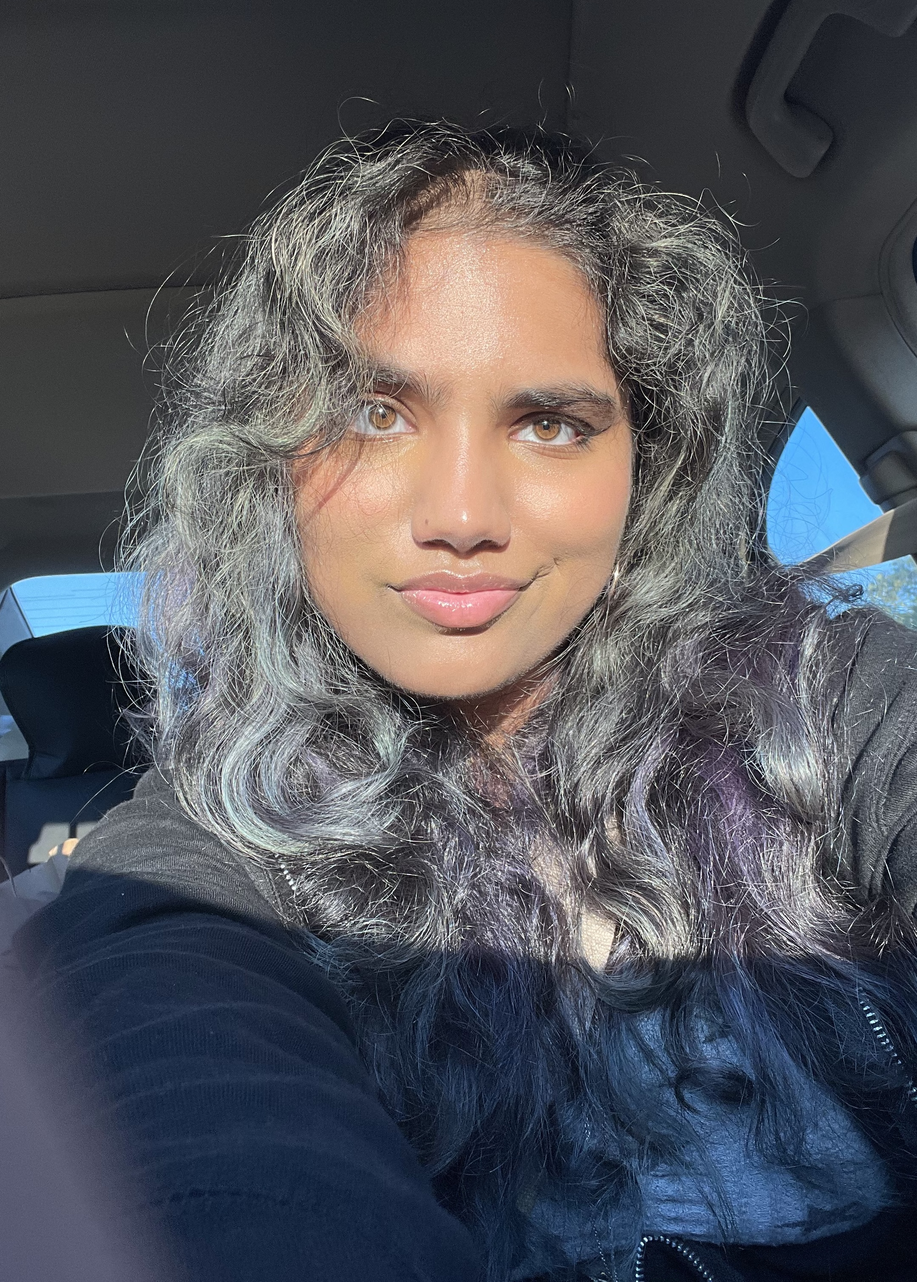
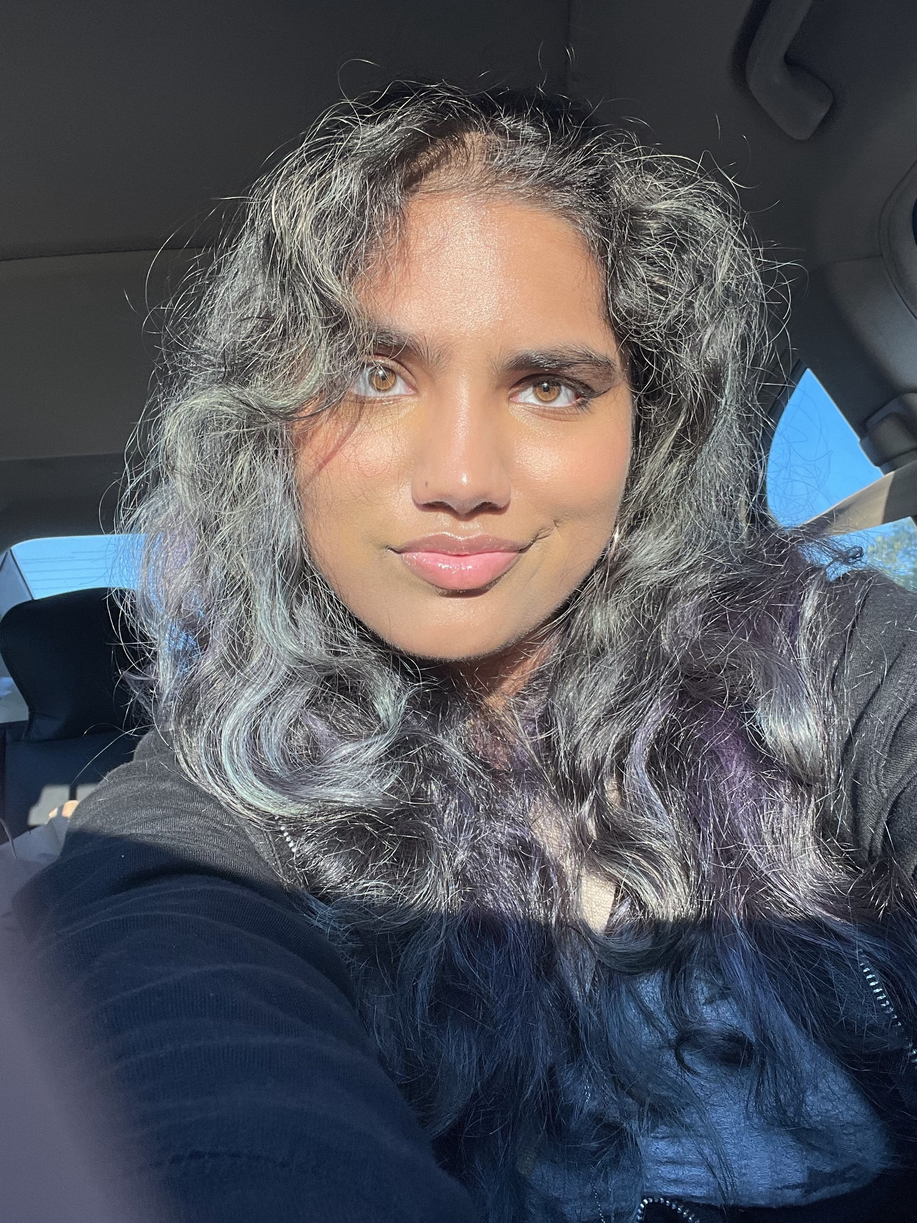
update exec board pic ratio, gitignore file, and AWC home image

diff --git a/about.html b/about.html
@@ -59,7 +59,7 @@
       <h2>Our Mission</h2>
     </div>
 
-    <div class="column2"> <!--style="background-color:rgba(168, 156, 200, 0.42);"-->
+    <div class="column2"> 
       <br><br>
       <p>
         We strive to create an inclusive community to promote gender equality and empowerment
@@ -78,75 +78,75 @@
       <h2>2025-2026 Executive Board</h2><br>
     </div>
     <div class="container">
-      <div class="row row-cols-1 row-cols-sm-2 row-cols-md-3 row-cols-lg-4 mb-4">
-        <div class="col exec mb-3">
-          <img src="assets-25/photos25/board_pics/Sriya.JPG" alt="Sriya Sogal Photo" width="90%">
+      <div class="row exec-row">
+        <div <div class="col exec">
+          <img src="assets-25/photos25/board_pics/sriya.jpeg" alt="Sriya Sogal Photo">
           <h2 class="name">Sriya Sogal</h2>
           <h3 class="position">Co-President | Senior</h3>
           <h4>Computer Science Major | Public Policy Major</h4>
         </div>
-        <div class="col exec mb-3">
-          <img src="assets-25/photos25/board_pics/sathvika.png" alt="Sathvika Sangoju Photo" width="85%">
+        <div class="col exec">
+          <img src="assets-25/photos25/board_pics/sathvika.jpeg" alt="Sathvika Sangoju Photo">
           <h2 class="name">Sathvika Sangoju</h2>
           <h3 class="position">Co-President | Senior</h3>
           <h4>Computer Science Major | General Business, Data Science</h4>
         </div>
-        <div class="col exec mb-3">
-          <img src="assets-25/photos25/board_pics/Nithika.jpg" alt="Nithika Ramana Photo" width="87%">
+        <div class="col exec">
+          <img src="assets-25/photos25/board_pics/nithika.jpeg" alt="Nithika Ramana Photo">
           <h2 class="name">Nithika Ramana</h2>
           <h3 class="position">Co-Active Members Director | Junior</h3>
           <h4>Computer Science Major | Statistics Minor</h4>
         </div>
-        <div class="col exec mb-3">
-          <img src="assets-25/photos25/board_pics/ananya.jpg" alt="Ananya Malipeddi Photo" width="90%">
+        <div class="col exec">
+          <img src="assets-25/photos25/board_pics/ananya.jpeg" alt="Ananya Malipeddi Photo">
           <h2 class="name">Ananya Malipeddi</h2>
           <h3 class="position">Co-Active Members Director | Senior</h3>
           <h4>Computer Science Major</h4>
         </div>
-        <div class="col exec mb-3">
-          <img src="assets-25/photos25/board_pics/zoya.jpeg" alt="Zoya Rahman Photo" width="90%">
+        <div class="col exec">
+          <img src="assets-25/photos25/board_pics/zoya.jpeg" alt="Zoya Rahman Photo">
           <h2 class="name">Zoya Rahman</h2>
           <h3 class="position">Design Director | Junior</h3>
           <h4>Computer Science Major | Immersive Media Design Major</h4>
         </div>
-        <div class="col exec mb-3">
-          <img src="assets-25/photos25/board_pics/Aabha.jpg" alt="Aabha Belsare Photo" width="90%">
+        <div class="col exec">
+          <img src="assets-25/photos25/board_pics/aabha.jpeg" alt="Aabha Belsare Photo">
           <h2 class="name">Aabha Belsare</h2>
           <h3 class="position">Finance Director | Sophomore</h3>
           <h4>Computer Science Major | Finance Major </h4>
         </div>
-        <div class="col exec mb-3">
-          <img src="assets-25/photos25/board_pics/Avanti.jpg" alt="Avanti Athavale Photo" width="83.5%">
+        <div class="col exec">
+          <img src="assets-25/photos25/board_pics/avanti.jpeg" alt="Avanti Athavale Photo">
           <h2 class="name">Avanti Athavale</h2>
           <h3 class="position">Co-Sponsorship Director | Junior</h3>
           <h4>Computer Science Major | Finance Major</h4>
         </div>
-        <div class="col exec mb-3">
-          <img src="assets-25/photos25/board_pics/laasya.jpg" alt="Laasya Madduri Photo" width="83.5%">
+        <div class="col exec">
+          <img src="assets-25/photos25/board_pics/laasya.jpeg" alt="Laasya Madduri Photo">
           <h2 class="name">Laasya Madduri</h2>
           <h3 class="position">Co-Sponsorship Director | Junior</h3>
           <h4>Computer Science Major</h4>
         </div>
-        <div class="col exec mb-3">
-          <img src="assets-25/photos25/board_pics/Purva.jpg" alt="Purva Chimurkar Photo" width="84.5%">
+        <div class="col exec">
+          <img src="assets-25/photos25/board_pics/purva.jpeg" alt="Purva Chimurkar Photo">
           <h2 class="name">Purva Chimurkar</h2>
           <h3 class="position">Social Media Director | Senior</h3>
           <h4>Computer Science Major | General Business Major</h4>
         </div>
-        <div class="col exec mb-3">
-          <img src="assets-25/photos25/board_pics/Alma.JPG" alt="Alma Hagstrom Photo" width="84.5%">
+        <div class="col exec">
+          <img src="assets-25/photos25/board_pics/alma.jpeg" alt="Alma Hagstrom Photo">
           <h2 class="name">Alma Hagstrom</h2>
           <h3 class="position">Education Director | Junior</h3>
           <h4>Computer Science Major | Finance Major</h4>
         </div>
-        <div class="col exec mb-3">
-          <img src="assets-25/photos25/board_pics/ciana.jpg" alt="Ciana Gomes Photo" width="90%">
+        <div class="col exec">
+          <img src="assets-25/photos25/board_pics/ciana.jpeg" alt="Ciana Gomes Photo">
           <h2 class="name">Ciana Gomes</h2>
           <h3 class="position">Social Events Director | Senior</h3>
           <h4>Computer Science Major | Data Science Minor</h4>
         </div>
-        <div class="col exec mb-3">
-          <img src="assets-25/photos25/board_pics/sharvari.JPG" alt="Sharvari Tirodkar Photo" width="100%">
+        <div class="col exec">
+          <img src="assets-25/photos25/board_pics/sharvari.jpeg" alt="Sharvari Tirodkar Photo">
           <h2 class="name">Sharvari Tirodkar</h2>
           <h3 class="position">Administrative Director | Senior</h3>
           <h4>Computer Science Major | Operations Management and Business Analytics Major</h4>

diff --git a/assets-25/css/about.css b/assets-25/css/about.css
@@ -26,6 +26,7 @@ body, html {
 
   .landing-page:hover .landing-page-text {
     opacity: 1;
+
   }
 
 * {box-sizing: border-box;}
@@ -45,14 +46,13 @@ div.desc {
 .execboard {
     padding: 30px;
     float: left;
-    /*width: 24.99999%;*/
     width: 24%;
 }
 
 @media only screen and (max-width: 1000px) {
     .execboard {
       width: 49.99999%;
-      margin: 6px 0;
+      margin: 10px 0;
     }
 }
   
@@ -62,56 +62,12 @@ div.desc {
     }
 }
 
-
-/* .aboutAWC h2{
-    text-align: center;
-    font-family: "Cormorant Garamond", serif;
-    font-weight: bold;
-    font-size: 80px;
-}
-
-.aboutAWC p {
-    text-align: center;
-    margin-left: 50px;
-    margin-right: 50px;
-    font-family: "Poppins", serif;
-}
-*/
-
-/* exec board section */
-/*
-.exec-board {
-    text-align: center;
-    font-family: "Poppins", serif;
-    font-weight: bold;
-    font-style: italic;
-}
-*/
-
 .exec-board h2 {
     font-size: 25px;
     text-align: center;
     font-family: "Poppins", serif;
     font-style: italic;
 }
-/*
-.desc h5 {
-    font-family: "Cormorant Garamond", serif;
-    font-size: 27px;
-    font-style: italic;
-}
-
-.desc h6 {
-    color: #E4B7E5;
-    font-size: 18px;
-    font-family: "Poppins", serif;
-}
-
-.desc p {
-    font-size: 15px;
-    font-family: "Poppins", serif;
-}
-*/
 
 /* EXEC Section */
 .exec img {
@@ -142,7 +98,31 @@ div.desc {
   padding: 7px;
 }
 
+/* 1) Turn your row into flex + wrap */
+.row.exec-row {
+  display: flex;
+  flex-wrap: wrap;          
+  justify-content: center;
+}
+
+/* 2) Let each “col exec” flex equally */
+.col.exec {
+  flex: 1 1 400px;
+  max-width: 300px;
+}
+
+/* 3) Make the image always fill its card */
+.col.exec img {
+  width: 100%;
+  aspect-ratio: 3/4;
+  object-fit: cover;
+  display: block;
+}
+
+
+
 .column1 {
+    display: flex;
     float: left;
     width: 20%;
     padding: 40px;
@@ -168,13 +148,5 @@ div.desc {
     margin-left: 150px;
     font-size: 16.5px;
 }
-
-  /* Clear floats after the columns */
-  .row:after {
-    content: "";
-    display: table;
-    clear: both;
-    font-family: "Poppins", serif;
-  }
 
   

diff --git a/assets-25/css/main.css b/assets-25/css/main.css
@@ -9,13 +9,10 @@
     transition: width 0.3s ease;
 }
 
-/* 2) On hover, expand to full menu width */
 .sidebar:hover {
     width: 200px;
-    /* adjust to suit your link text */
 }
 
-/* 3) Style the always-visible tab */
 .sidebar-tab {
     height: 60px;
     display: flex;
@@ -27,25 +24,20 @@
 
 .sidebar-tab img {
     width: 30px;
-    /* your logo/icon size */
 }
 
-/* 4) Hidden menu links */
 .sidebar-menu {
     display: flex;
     flex-direction: column;
     margin-top: 20px;
-    /* space below your tab */
     opacity: 0;
     transition: opacity 0.3s ease 0.1s;
 }
 
-/* 5) Fade menu in only when expanded */
 .sidebar:hover .sidebar-menu {
     opacity: 1;
 }
 
-/* 6) Basic link styling */
 .sidebar-menu a {
     padding: 10px 15px;
     color: white;
@@ -96,7 +88,6 @@
 
 .footer {
     text-align: center;
-    /* background-color: rgba(239, 168, 176, 0.5); */
     font-family: "Poppins", serif;
     font-size: 12px;
     color: #f09ba5;

diff --git a/assets-25/css/index.css b/assets-25/css/index.css
@@ -92,7 +92,7 @@ div.desc {
   font-size: 50px;
   font-family: "Cormorant Garamond", serif;
   font-style: italic;
-  color: #A89CC8;
+  color: #7259b7;
 }
 
 .image {
@@ -129,7 +129,7 @@ div.desc {
   margin-left: 40px;
   font-size: 20px;
   font-family: "Poppins", serif;
-  color:#A89CC8;
+  color:#7259b7;
 }
 
 /* three equal columns that floats next to each other */
@@ -144,7 +144,7 @@ div.desc {
   font-family: "Poppins", serif;
   font-size: 20px;
   font-weight: bold;
-  color:#A89CC8;
+  color:#7259b7;
 }
 
 .link-column p {
@@ -182,7 +182,7 @@ div.desc {
   font-size: 20px;
   margin-right: 18px;
   font-family: "Poppins", serif;
-  color:#A89CC8;
+  color:#7259b7;
 }
 
 .connect p {
